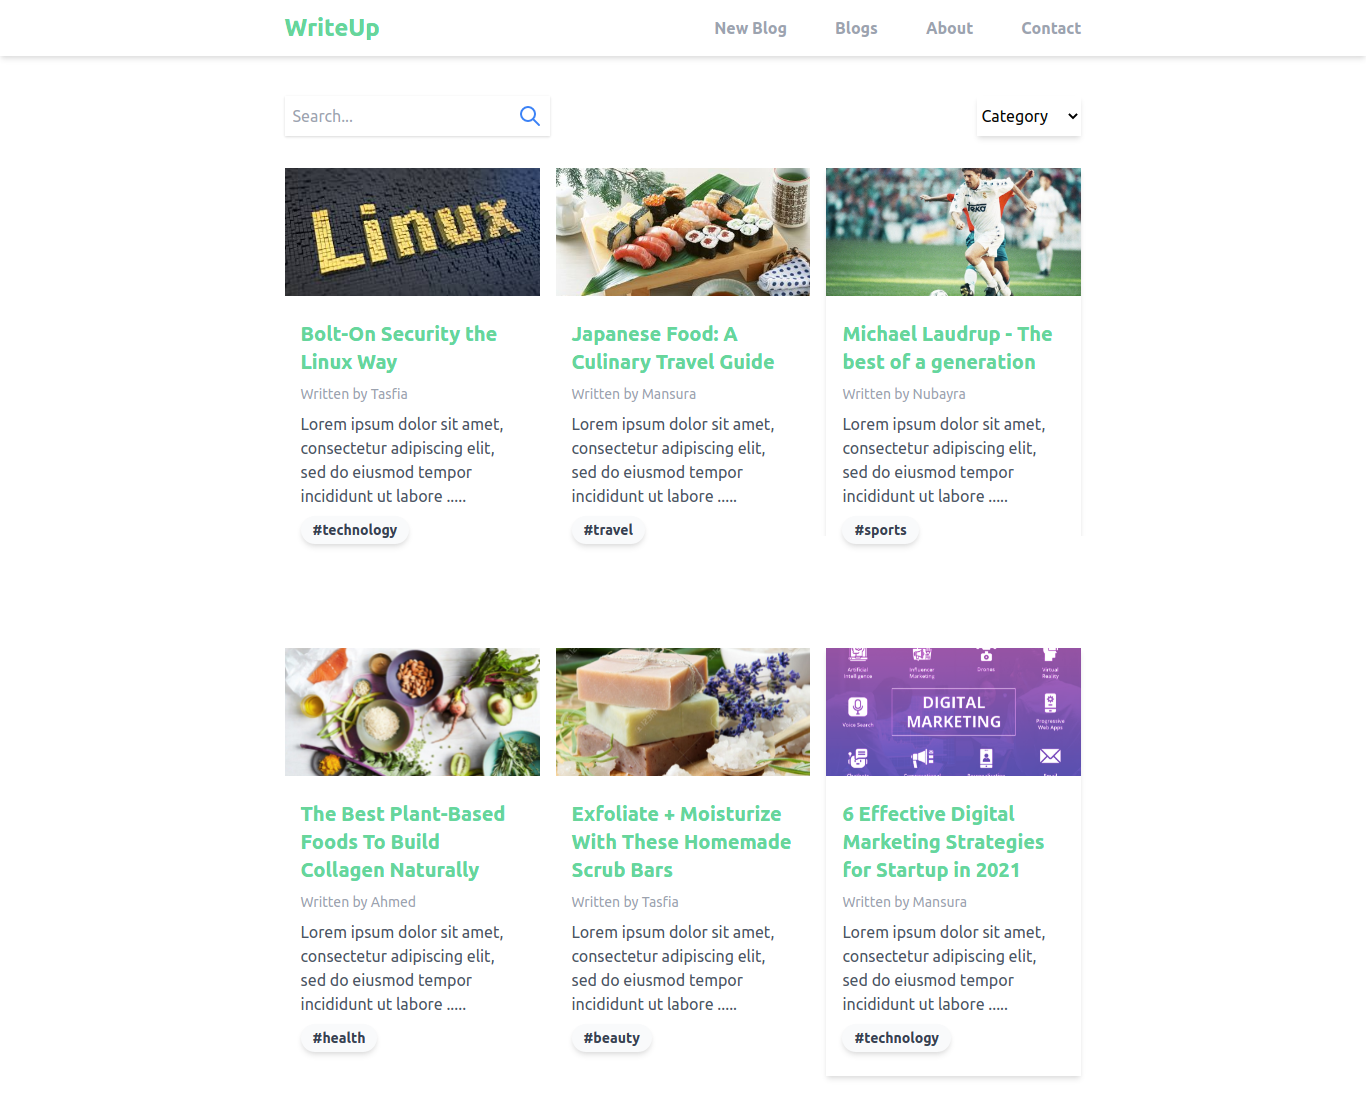
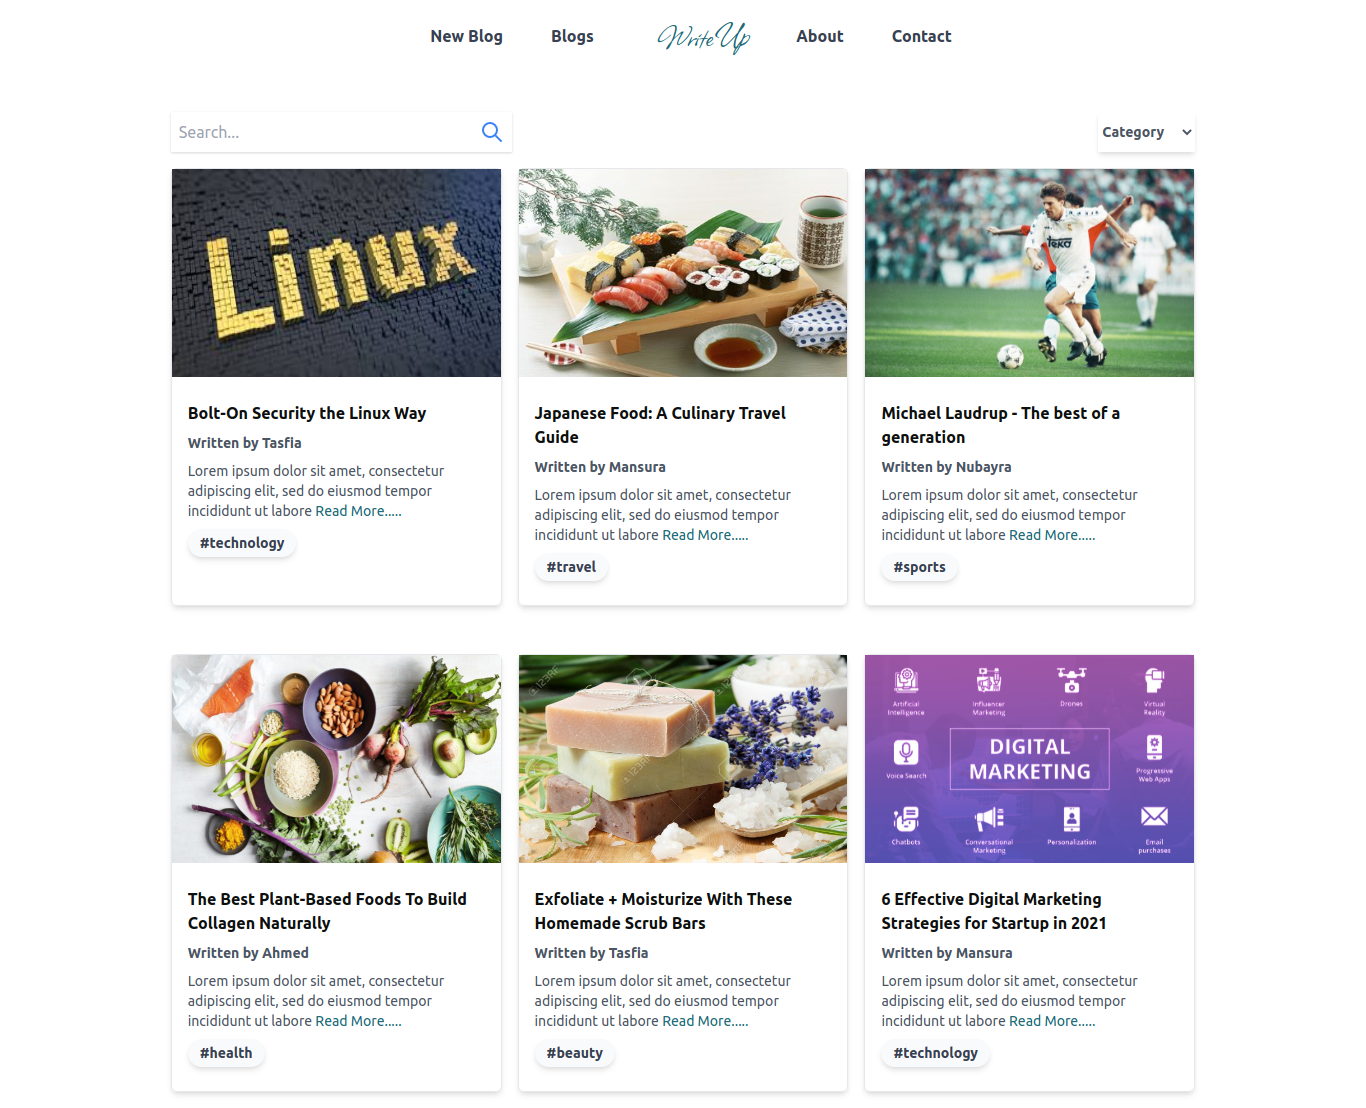
change design

diff --git a/frontend/src/BlogList.js b/frontend/src/BlogList.js
@@ -34,7 +34,7 @@ const BlogList = ({blogs, searchTerm, searchCategory, searchHandler, categoryHan
                     <select
                         value={searchCategory} ref={selectEl}
                         onChange={getSelectItems}
-                        className="w-6/7 h-10 border-none outline-none shadow-md bg-white"
+                        className="w-6/7 h-10 border-none outline-none shadow-md bg-white text-sub-title"
                     >
                         <option value="None">Category</option>
                         <option value="Technology">Technology</option>
@@ -44,25 +44,23 @@ const BlogList = ({blogs, searchTerm, searchCategory, searchHandler, categoryHan
                     </select>
                 </div>
             </div>
-            {/* <div className="flex"> */}
                 <div className="grid md:grid-cols-3 gap-4">
-                {/* <div className="flex"> */}
                 {blogs.map( blog => (
                     <div className="mt-4 md:my-4 border border-gray-200 shadow-md rounded-md" key={blog.id}>
                         <div className="flex flex-col">
+                            <Link to={`/blogs/${blog.id}`}>
                             <div>
                                 <img src={imgUrl + blog.blogImage.url} className="object-fit h-64 md:h-52 w-full"/>
                             </div>
                             <div className="p-4 flex justify-between">
                                 <div>
-                                    <Link to={`/blogs/${blog.id}`}>
-                                        <h2 className="py-2 text-title">{ blog.title }</h2>
-                                        <p className="pb-2 text-sub-title">Written by { blog.author }</p>
-                                        <p className="pb-2 text-content">{ blog.body.slice(0,100) }<span className="text-primary">Read More.....</span></p>
-                                        <span className="inline-block bg-gray-50 shadow-md rounded-full px-2 md:px-3 py-1 text-sm font-semibold text-gray-700 mr-2 mb-2">#{blog.category}</span>
-                                    </Link>
+                                    <h2 className="py-2 text-title">{ blog.title }</h2>
+                                    <p className="pb-2 text-sub-title">Written by { blog.author }</p>
+                                    <p className="pb-2 text-content">{ blog.body.slice(0,100) }<span className="text-primary">Read More.....</span></p>
+                                    <span className="inline-block bg-gray-50 shadow-md rounded-full px-2 md:px-3 py-1 text-sm font-semibold text-gray-700 mr-2 mb-2">#{blog.category}</span> 
                                 </div>
                             </div>
+                            </Link>
                         </div>
                     </div>
                 ))}

diff --git a/frontend/src/Navbar.js b/frontend/src/Navbar.js
@@ -12,12 +12,12 @@ const Navbar = () => {
 
     return ( 
         <header class="md:flex md:items-center md:justify-between py-4 pb-0 md:pb-4">
-            <div className="w-4/5 md:w-9/12 mx-auto md:flex md:items-center md:justify-between">
+            <div className="w-4/5 md:w-9/12 mx-auto md:flex md:items-center md:justify-center">
                 <div className="flex items-center justify-between md:justify-center">
                     
                     <div class="flex items-center justify-between mb-4 md:mb-0 md:hidden">
                         <h1 class="leading-none text-2xl">
-                            <Link to="/react-blog" class="text-4xl 2xl:text-8xl no-underline font-allison text-secondary">
+                            <Link to="/react-blog" class="text-4xl 2xl:text-8xl no-underline font-allison text-primary">
                                 WriteUp
                             </Link>
                         </h1>
@@ -43,7 +43,7 @@ const Navbar = () => {
                         </li>
                         <div class="items-center justify-between mb-4 md:mb-0 md:mx-8 hidden md:inline">
                             <h1 class="leading-none text-2xl">
-                                <Link to="/react-blog" class="text-4xl 2xl:text-8xl no-underline font-allison text-secondary">
+                                <Link to="/react-blog" class="text-4xl 2xl:text-8xl no-underline font-allison text-primary">
                                     WriteUp
                                 </Link>
                             </h1>

diff --git a/frontend/src/BlogDetails.js b/frontend/src/BlogDetails.js
@@ -55,13 +55,13 @@ const BlogDetails = () => {
             {isLoading && <div>Loading...</div>}
             {error && <div>{error}.</div>}
             {/* {console.log(data.blog)} */}
-            {data.blog && (
+            {data && (
                 <div>
-                    <h2 className="py-2 text-xl text-green-400 font-bold hover:text-black">{ data.blog.title }</h2>
-                    <p className="text-gray-400 text-sm mb-6">Written by { data.blog.author }</p>
+                    <h2 className="py-2 blog-detail-title">{ data.blog.title }</h2>
+                    <p className="text-sub-title mb-6">Written by { data.blog.author }</p>
                     <div>
-                        <img className="w-full object-cover h-40 md:h-80 mb-6" src={imgUrl+data.blog.blogImage.url}/>
-                        <p className="text-gray-600 text-md text-justify">{ data.blog.body }</p>
+                        <img className="w-full object-cover h-40 md:h-4/5 mb-6 rounded" src={imgUrl+data.blog.blogImage.url}/>
+                        <p className="text-content text-justify">{ data.blog.body }</p>
                     </div>
                     <div className="my-4 flex space-x-4">
                         <div className="text-red-500 hover:text-black" onClick={handleDelete}>

diff --git a/frontend/src/index.css b/frontend/src/index.css
@@ -7,13 +7,17 @@
         @apply block font-semibold py-2 text-base 2xl:text-lg text-gray-700 hover:text-gray-400 md:border-none md:p-0;
     }
     .text-title{
-        @apply text-primary hover:text-gray-600 text-base 2xl:text-lg font-bold;
+        @apply text-secondary hover:text-primary text-base 2xl:text-lg font-bold;
     }
     .text-sub-title{
         @apply text-gray-600 text-sm 2xl:text-lg font-semibold;
     }
     .text-content{
         @apply text-gray-600 text-sm 2xl:text-lg;
+    }
+
+    .blog-detail-title{
+        @apply text-primary hover:text-primary-light text-lg 2xl:text-xl font-bold;
     }
 
     .grid-items:first-child .grid-item{

diff --git a/frontend/tailwind.config.js b/frontend/tailwind.config.js
@@ -4,10 +4,9 @@ module.exports = {
   theme: {
     extend: {
       colors: {
-        // 'primary': '#0E4763',
-        'primary': '#0D0F0E',
-        'primary-light': '#FBF5F7',
-        'secondary': '#106976',
+        'primary': '#106976',
+        'primary-light': '#57969F',
+        'secondary': '#0D0F0E',
       },
       fontFamily: {
         'allison': ['"Allison"', 'cursive']

diff --git a/README.md b/README.md
@@ -8,8 +8,8 @@
 1. Home
 ![Home](screenshots/Home.png)
 ---
-2. Blog detail page
-![Blog Detail](screenshots/BlogDetail1.png)
+1. Blog detail page
+![Blog Detail](screenshots/Detail.png)
 
 ### Features
 - List all blogs
